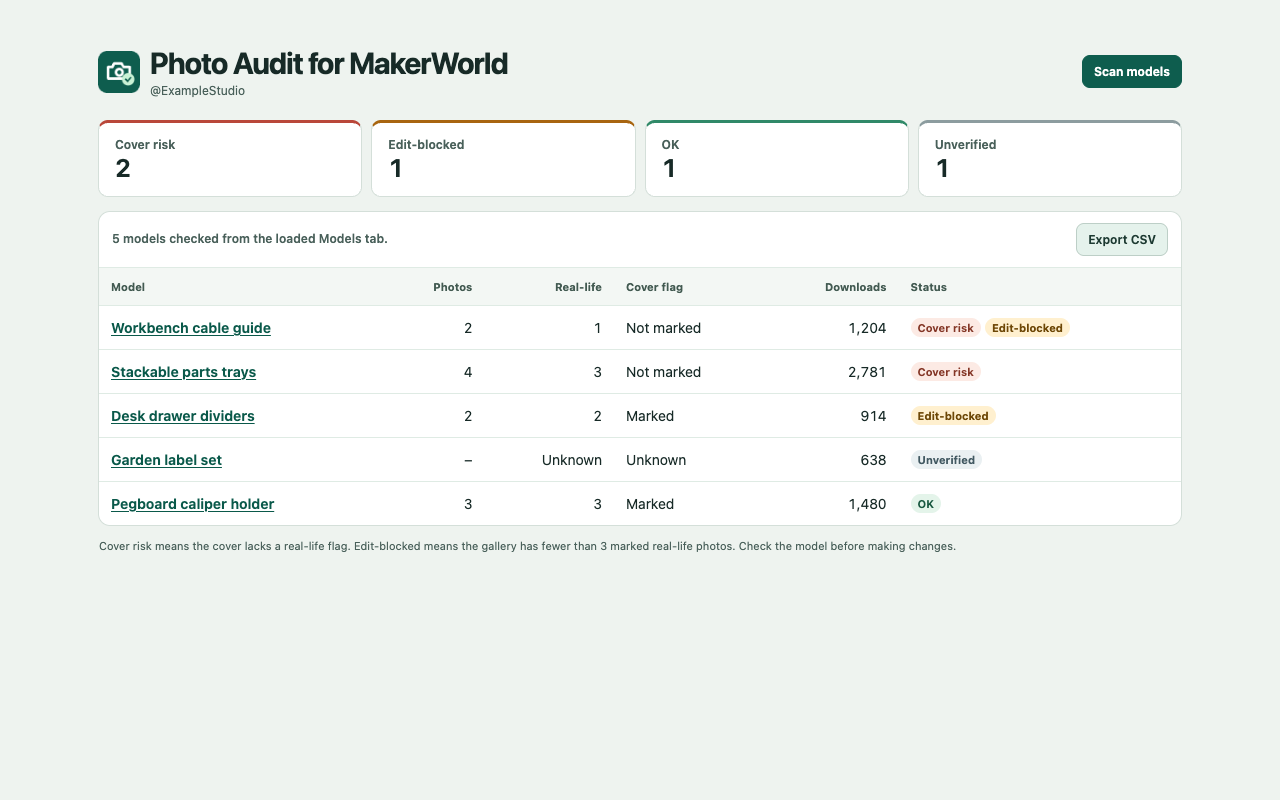
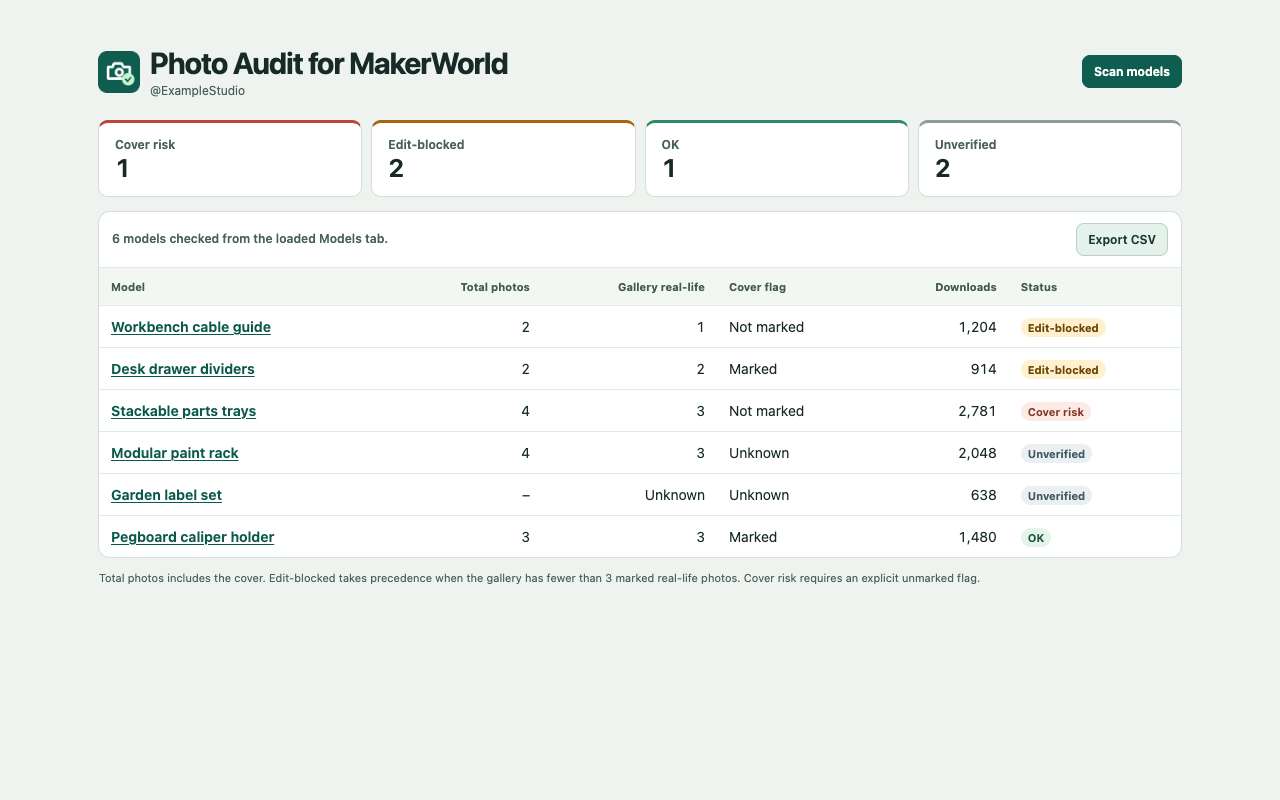
Fix photo audit status and cover reporting in 1.0.1

diff --git a/test/classification.test.js b/test/classification.test.js
@@ -6,13 +6,13 @@ import { makeCsv } from '../src/csv.js';
 
 const fixtures = JSON.parse(readFileSync(new URL('./fixtures/designs.json', import.meta.url)));
 
-test('uses model gallery and not print-profile images or guides', () => {
+test('gives edit-blocked precedence over an explicit cover risk', () => {
   const row = classifyDesign(fixtures.dualRisk);
   assert.equal(row.totalPhotos, 2);
   assert.equal(row.realPhotos, 1);
   assert.equal(row.coverMarked, false);
   assert.equal(row.editBlocked, true);
-  assert.equal(row.status, Status.COVER);
+  assert.equal(row.status, Status.EDIT);
   assert.equal(row.downloads, 1204);
 });
 
@@ -47,18 +47,39 @@ test('keeps missing gallery metadata unknown even when instance photos exist', (
   assert.equal(row.status, Status.UNKNOWN);
 });
 
-test('uses positive duplicate flags and does not count a standalone cover as a gallery photo', () => {
+test('adds a standalone cover once and preserves positive duplicate gallery flags', () => {
   const design = structuredClone(fixtures.dualRisk);
   const gallery = design.designExtension;
   gallery.real_pictures.push({ url: design.coverUrl, isRealLifePhoto: 1 });
   assert.equal(classifyDesign(design).coverMarked, true);
+  assert.equal(classifyDesign(design).totalPhotos, 2);
   assert.equal(classifyDesign(design).realPhotos, 2);
   design.coverUrl = 'https://makerworld.bblmw.com/model/a/standalone.jpg';
   design.isRealLifePhoto = 1;
   const row = classifyDesign(design);
   assert.equal(row.coverMarked, true);
+  assert.equal(row.totalPhotos, 3);
   assert.equal(row.editBlocked, true);
   assert.equal(row.realPhotos, 2);
+});
+
+test('keeps a separate cover with no marker unknown when gallery photos are marked', () => {
+  const row = classifyDesign(fixtures.standaloneCover);
+  assert.equal(row.coverMarked, null);
+  assert.equal(row.totalPhotos, 4);
+  assert.equal(row.realPhotos, 3);
+  assert.equal(row.editBlocked, false);
+  assert.equal(row.status, Status.UNKNOWN);
+  assert.match(makeCsv([row]), /"4","3","Unknown"/);
+});
+
+test('keeps a cover in the gallery unknown if it has no marker', () => {
+  const design = structuredClone(fixtures.coverRisk);
+  delete design.designExtension.design_pictures[0].isRealLifePhoto;
+  const row = classifyDesign(design);
+  assert.equal(row.totalPhotos, 4);
+  assert.equal(row.coverMarked, null);
+  assert.equal(row.status, Status.UNKNOWN);
 });
 
 test('allows an unknown flag to affect the threshold without assuming the photo is real', () => {
@@ -71,14 +92,14 @@ test('allows an unknown flag to affect the threshold without assuming the photo 
   assert.equal(row.status, Status.UNKNOWN);
 });
 
-test('prioritizes both flags, cover-only, edits, and unknowns ahead of OK', () => {
+test('sorts edit-blocked first, followed by cover risk, unverified, and OK', () => {
   const rows = Object.values(fixtures).map(classifyDesign).reverse().sort(compareRows);
-  assert.deepEqual(rows.map(row => row.id), [1001, 1002, 1003, 1005, 1004]);
+  assert.deepEqual(rows.map(row => row.id), [1001, 1003, 1002, 1006, 1005, 1004]);
 });
 
 test('quotes CSV and neutralizes spreadsheet formulas in public titles', () => {
   const row = classifyDesign({ ...fixtures.dualRisk, title: '=SUM(1,2)\nHello "world"', url: 'unused' });
   const csv = makeCsv([{ ...row, url: 'https://makerworld.com/en/models/1001' }]);
   assert.match(csv, /"'=SUM\(1,2\)\nHello ""world"""/);
-  assert.match(csv, /"Cover risk","Yes",""\r\n$/);
+  assert.match(csv, /"Edit-blocked","Yes",""\r\n$/);
 });

diff --git a/test/browser.js b/test/browser.js
@@ -138,6 +138,9 @@ async function runProfile(worker, item) {
       id: Number(row.dataset.id), status: row.dataset.status, editBlocked: Boolean(row.dataset.editBlocked),
       title: row.querySelector('a').textContent, note: row.querySelector('.row-note')?.textContent ?? null
     })));
+    assert.deepEqual(await dashboard.locator('#rows tr').evaluateAll(entries =>
+      entries.map(row => [...row.querySelectorAll('.badge')].map(badge => badge.textContent))
+    ), rows.map(row => [row.status]));
     const counts = Object.fromEntries(fields.map(value => [value, rows.filter(row => row.status === value).length]));
     for (const [key, field] of Object.entries({ cover: fields[0], edit: fields[1], ok: fields[2], unknown: fields[3] })) {
       assert.equal(Number(await dashboard.locator('#count-' + key).textContent()), counts[field]);
@@ -153,7 +156,18 @@ async function runProfile(worker, item) {
     await (await downloaded).saveAs(resolve(evidence, fileName));
     const csv = await readFile(resolve(evidence, fileName), 'utf8');
     assert.ok(csv.startsWith('\uFEFF"Model","Link","Total photos","Real-life photos"'));
-    for (const row of rows) assert.match(csv, new RegExp(`/models/${row.id}(?:-|")`));
+    for (const row of rows) {
+      const line = csv.split('\r\n').find(line => new RegExp(`/models/${row.id}(?:-|")`).test(line));
+      assert.ok(line, `Missing CSV row for ${row.id}`);
+      assert.ok(line.includes(`,"${row.status}","${row.editBlocked ? 'Yes' : 'No'}",`)
+        || (!row.editBlocked && line.includes(`,"${row.status}","Unknown",`)), line);
+    }
+    if (mode === 'store') {
+      const cover = dashboard.locator('#rows tr[data-id="1006"]');
+      assert.equal(await cover.locator('td').nth(1).textContent(), '4');
+      assert.equal(await cover.locator('td').nth(3).textContent(), 'Unknown');
+      assert.match(csv, /"4","3","Unknown","2048","","Unverified","No",""/);
+    }
 
     const screenshot = mode === 'store' ? resolve(evidence, 'screenshot-1280x800.png') : resolve(evidence, `${mode}-${slug}.png`);
     await dashboard.screenshot({ path: screenshot, animations: 'disabled' });
@@ -187,8 +201,8 @@ try {
       return route.fulfill({ json: data });
     });
     const sample = await runProfile(worker, item);
-    assert.deepEqual(sample.counts, { 'Cover risk': 2, 'Edit-blocked': 1, 'OK': 1, 'Unverified': 1 });
-    assert.deepEqual(sample.rows.map(row => row.id), [1001, 1002, 1003, 1005, 1004]);
+    assert.deepEqual(sample.counts, { 'Cover risk': 1, 'Edit-blocked': 2, 'OK': 1, 'Unverified': 2 });
+    assert.deepEqual(sample.rows.map(row => row.id), [1001, 1003, 1002, 1006, 1005, 1004]);
     results.push(sample);
   } else {
     for (const item of profiles) {

diff --git a/src/classification.js b/src/classification.js
@@ -5,7 +5,7 @@ export const Status = Object.freeze({
   OK: 'OK'
 });
 
-const order = [Status.COVER, Status.EDIT, Status.UNKNOWN, Status.OK];
+const order = [Status.EDIT, Status.COVER, Status.UNKNOWN, Status.OK];
 
 function imageKey(value) {
   if (typeof value !== 'string' || !value.trim()) return null;
@@ -50,7 +50,6 @@ export function classifyDesign(design) {
   const coverKey = imageKey(design.coverUrl);
   const coverMarked = coverKey
     ? photos.get(coverKey) ?? flag(design.isRealLifePhoto)
-      ?? (complete && !photos.has(coverKey) ? false : null)
     : null;
   const values = [...photos.values()];
   const markedCount = values.filter(value => value === true).length;
@@ -59,15 +58,15 @@ export function classifyDesign(design) {
     : complete && markedCount + unmarkedCount < 3 ? true : null;
 
   let status = Status.UNKNOWN;
-  if (coverMarked === false) status = Status.COVER;
-  else if (editBlocked === true) status = Status.EDIT;
+  if (editBlocked === true) status = Status.EDIT;
+  else if (coverMarked === false) status = Status.COVER;
   else if (coverMarked === true && editBlocked === false) status = Status.OK;
 
   return {
     id: design.id,
     title: design.title?.trim() || '',
     handle: typeof design.designCreator?.handle === 'string' ? design.designCreator.handle : null,
-    totalPhotos: complete ? photos.size : null,
+    totalPhotos: complete ? photos.size + Number(coverKey !== null && !photos.has(coverKey)) : null,
     realPhotos: complete && !unmarkedCount ? markedCount : null,
     knownRealPhotos: markedCount,
     coverMarked,
@@ -80,7 +79,6 @@ export function classifyDesign(design) {
 
 export function compareRows(a, b) {
   return order.indexOf(a.status) - order.indexOf(b.status)
-    || Number(b.editBlocked === true) - Number(a.editBlocked === true)
     || (b.downloads ?? -1) - (a.downloads ?? -1)
     || a.title.localeCompare(b.title)
     || String(a.id).localeCompare(String(b.id), undefined, { numeric: true });

diff --git a/src/audit.html b/src/audit.html
@@ -41,8 +41,8 @@
           <thead>
             <tr>
               <th scope="col">Model</th>
-              <th class="number" scope="col">Photos</th>
-              <th class="number" scope="col">Real-life</th>
+              <th class="number" scope="col">Total photos</th>
+              <th class="number" scope="col">Gallery real-life</th>
               <th scope="col">Cover flag</th>
               <th class="number" scope="col">Downloads</th>
               <th class="number" scope="col" id="points-heading" hidden>Points</th>
@@ -54,7 +54,7 @@
       </div>
     </div>
     <footer>
-      <p>Cover risk means the cover lacks a real-life flag. Edit-blocked means the gallery has fewer than 3 marked real-life photos. Check the model before making changes.</p>
+      <p>Total photos includes the cover. Edit-blocked takes precedence when the gallery has fewer than 3 marked real-life photos. Cover risk requires an explicit unmarked flag.</p>
     </footer>
   </main>
 </body>

diff --git a/site/index.html b/site/index.html
@@ -25,7 +25,7 @@
       <div class="intro">
         <h1 id="page-title">Photo Audit for MakerWorld</h1>
         <p>Find models with a cover at risk and models whose edits are blocked because they have fewer than three real-life photos.</p>
-        <a class="download" href="/downloads/makerworld-photo-audit-1.0.0.zip" download>Download extension ZIP</a>
+        <a class="download" href="/downloads/makerworld-photo-audit-1.0.1.zip" download>Download extension ZIP</a>
         <p class="note">Free for Chrome. Chrome Web Store listing pending.</p>
       </div>
       <figure class="preview">

diff --git a/src/audit.js b/src/audit.js
@@ -82,11 +82,7 @@ function render() {
     valueCell(tr, coverLabel(row));
     valueCell(tr, row.downloads, true);
     if (showPoints) valueCell(tr, row.points, true);
-    const badges = document.createElement('span');
-    badges.className = 'badges';
-    badges.append(badge(row.status));
-    if (row.status === Status.COVER && row.editBlocked === true) badges.append(badge(Status.EDIT));
-    tr.insertCell().append(badges);
+    tr.insertCell().append(badge(row.status));
     body.append(tr);
   }
 

diff --git a/src/audit.css b/src/audit.css
@@ -83,7 +83,6 @@ th, td { vertical-align: middle; }
 tbody tr:hover { background: #f6faf7; }
 a { color: #0a594a; text-decoration-thickness: 1px; text-underline-offset: 2px; font-weight: 650; }
 .model-cell { min-width: 125px; overflow-wrap: anywhere; }
-.badges { display: flex; gap: 4px; flex-wrap: wrap; }
 .badge {
   white-space: nowrap;
   background: var(--tag-bg);

diff --git a/src/worker.js b/src/worker.js
@@ -1,6 +1,6 @@
 import { classifyDesign } from './classification.js';
 
-const CACHE_NAME = 'design-audit-v1';
+const CACHE_NAME = 'design-audit-v2';
 const CACHE_TIME = 15 * 60_000;
 const CACHE_LIMIT = 750;
 const REQUEST_GAP = 450;

diff --git a/README.md b/README.md
@@ -19,14 +19,14 @@ Live verification of the profile's HTML and XHR was blocked by Cloudflare in hea
 
 The extension requests `GET https://api.bambulab.com/v1/design-service/design/{id}?visitHistory=false` anonymously, one request at a time, with at least 450 ms between requests. Successful rows are cached locally and reused for 15 minutes. An HTTP 429 stops the scan and honors the retry window.
 
-Live responses expose `id`, `title`, `designCreator.handle`, `coverUrl`, `downloadCount`, and the design gallery at `designExtension.design_pictures` and `designExtension.real_pictures`. Gallery entries have `url` and numeric `isRealLifePhoto` flags. The extension deduplicates the same photo across fields, checks the cover by URL, and excludes print-profile photos under `instances[].pictures`. A standalone cover does not add a gallery photo. Points appear when the response exposes a numeric `points` or `pointCount` field. The live samples did not expose either. [Sample public design API response](https://api.bambulab.com/v1/design-service/design/544229?visitHistory=false)
+Live responses expose `id`, `title`, `designCreator.handle`, `coverUrl`, `downloadCount`, and the design gallery at `designExtension.design_pictures` and `designExtension.real_pictures`. Gallery entries have `url` and numeric `isRealLifePhoto` flags. The extension deduplicates the same photo across fields, checks the cover by URL, and excludes print-profile photos under `instances[].pictures`. Total photos includes the cover once, even when the cover is separate from the gallery. Real-life photo counts use the gallery. A separate cover can carry no real-life marker even when gallery photos are marked. In that case the cover flag is Unknown. Points appear when the response exposes a numeric `points` or `pointCount` field. The live samples did not expose either. [Sample public design API response](https://api.bambulab.com/v1/design-service/design/544229?visitHistory=false)
 
-- **Cover risk** means the cover lacks a real-life flag in the available metadata.
-- **Edit-blocked** means fewer than three gallery photos are marked real-life. This flag estimates the photo count check before a cover edit.
+- **Cover risk** means the cover is explicitly flagged as unmarked in the available metadata.
+- **Edit-blocked** means the available gallery flags establish that fewer than three photos can be marked real-life. This flag estimates the photo count check before a cover edit.
 - **OK** means the cover is marked and at least three gallery photos are marked real-life.
 - **Unverified** means there is too little metadata to classify the model.
 
-A model with both flags appears under **Cover risk** and shows an additional **Edit-blocked** badge. Each model contributes once to the summary. The audit reads labels. Review flagged models to confirm the cover shows the complete print and matches the files. The three-photo upload rule and review period for older covers are described in MakerWorld's announcement. [MakerWorld announcement](https://makerworld.com/en/community/post/1934883), [Bambu Lab forum discussion](https://forum.bambulab.com/t/263032)
+A model with both findings appears under **Edit-blocked** and shows its cover flag in the Cover flag column. The summary, table, and CSV use the same primary status. The audit reads labels. Review flagged models to confirm the cover shows the complete print and matches the files. The three-photo upload rule and review period for older covers are described in MakerWorld's announcement. [MakerWorld announcement](https://makerworld.com/en/community/post/1934883), [Bambu Lab forum discussion](https://forum.bambulab.com/t/263032)
 
 ## Test and package
 

diff --git a/store/listing.md b/store/listing.md
@@ -10,9 +10,9 @@ Check MakerWorld model cover flags and real-life photo counts. Find cover risks,
 
 ## Long description
 
-Open the Models tab of a public MakerWorld profile and scan its model photos. See which covers lack a real-life flag, how many gallery photos MakerWorld marks as real-life, and which cover edits may be blocked by the three-photo check.
+Open the Models tab of a public MakerWorld profile and scan its model photos. See which covers MakerWorld explicitly flags as unmarked, how many gallery photos MakerWorld marks as real-life, and which cover edits may be blocked by the three-photo check.
 
-- See cover risks first, with model links and public download or point counts where available.
+- See edit-blocked models and cover risks first, with model links and public download or point counts where available.
 - Export your results as a CSV.
 - Open the audit in a tab to keep it handy while paging through models.
 
